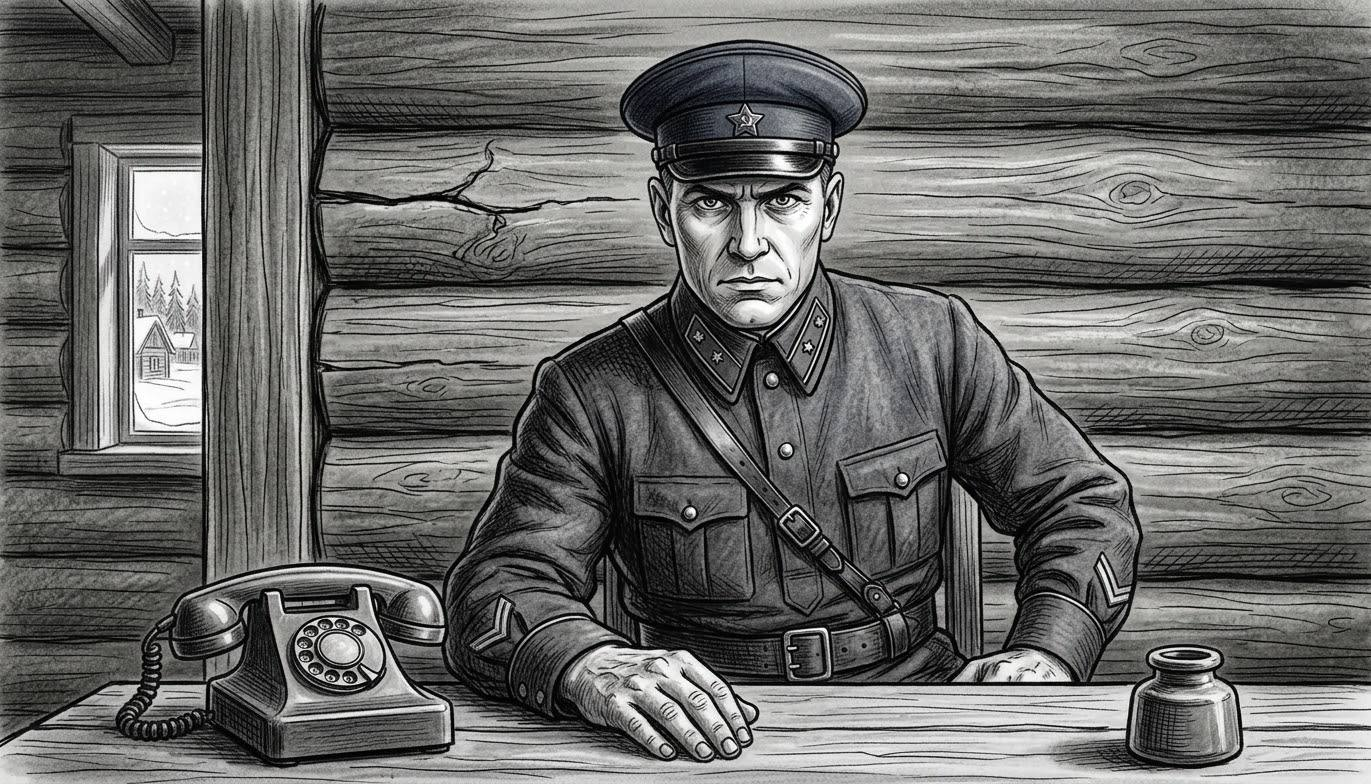
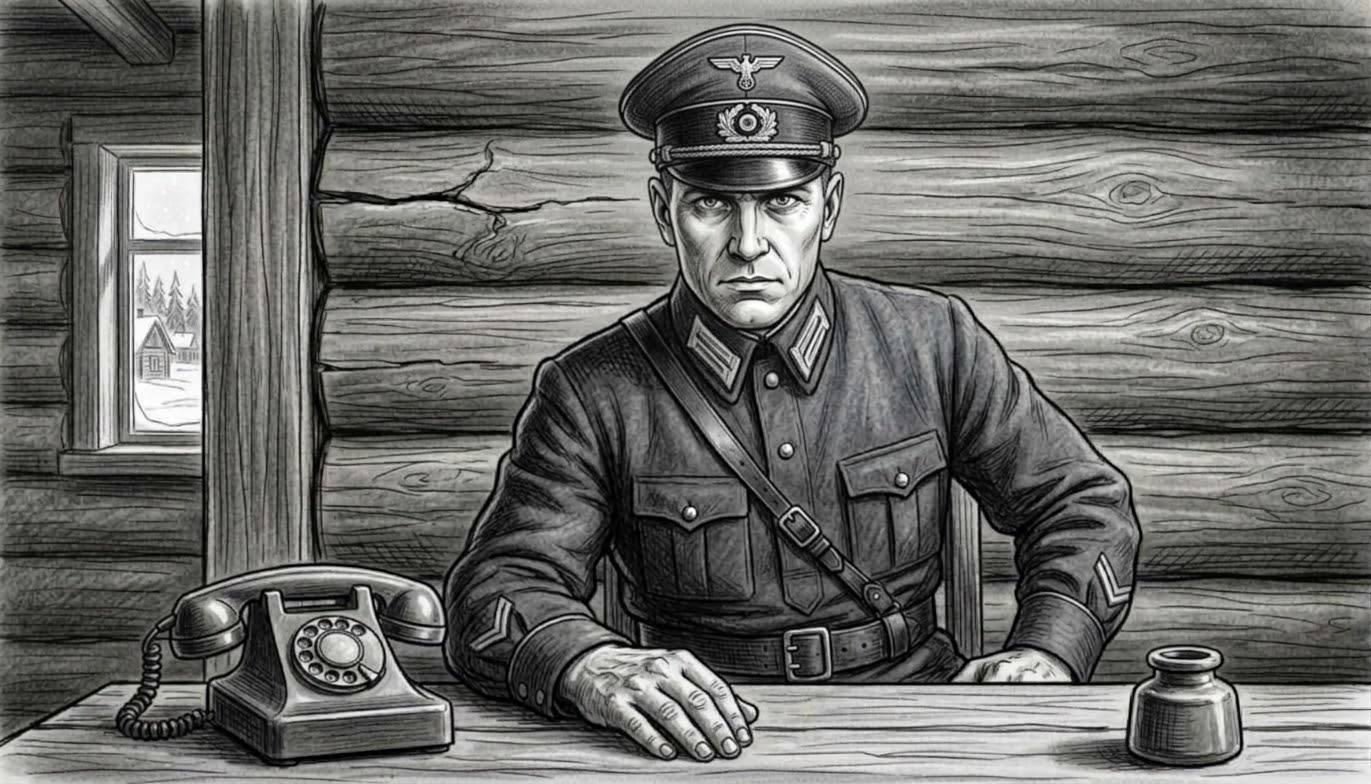
изменила фото и чуть-чуть поменяла текст

diff --git a/js/app.js b/js/app.js
@@ -1099,7 +1099,7 @@ export function playScene6(onDone) {
   after(16500, () => {
     textEl.classList.remove("is-fading");
     textEl.textContent =
-      "Я возвращалась с задания. Деревня Мостище. Снег. Тишина. Слишком тихая.";
+      "Я возвращалась с задания. Деревня Мостище. Снег. Тишина. Слишком тихо.";
     inner.classList.add("is-visible");
     textEl.classList.add("is-visible");
     // playVoice("assets/audio/32.mp3", 1.0);
@@ -1866,7 +1866,7 @@ export function playScene10(onDone) {
   // Пауза + «Но прямая.»
   after(36000, () => {
     textEl.classList.remove("is-fading");
-    textEl.textContent = "Но прямая.";
+    textEl.textContent = "Не сломленная.";
     inner.classList.add("is-visible");
     textEl.classList.add("is-visible");
     // playVoice("assets/audio/57.mp3", 1.0);
